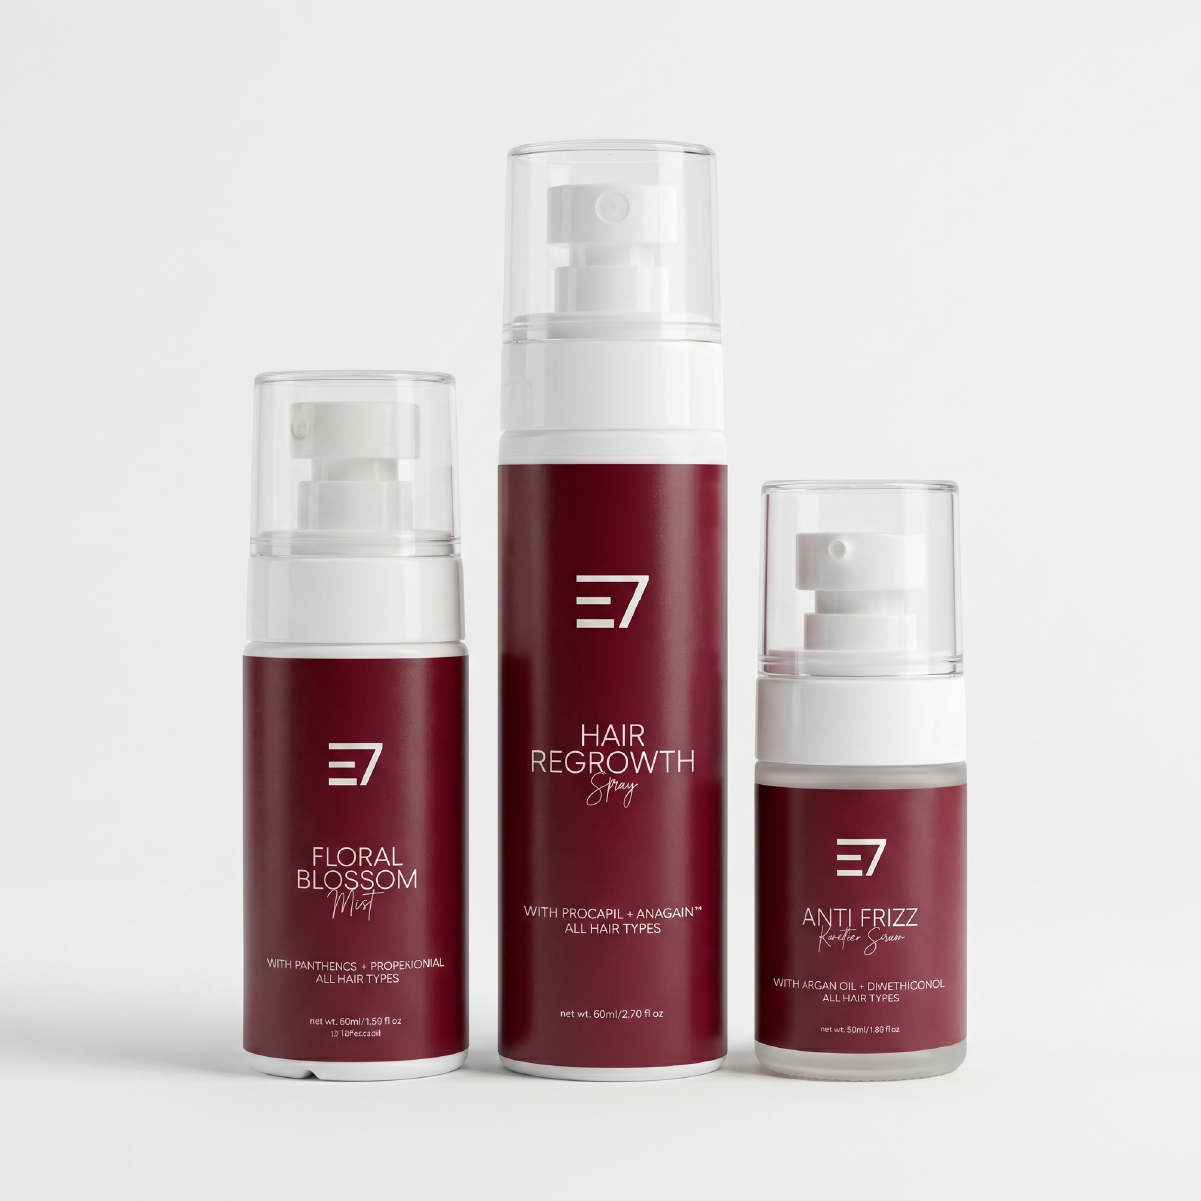
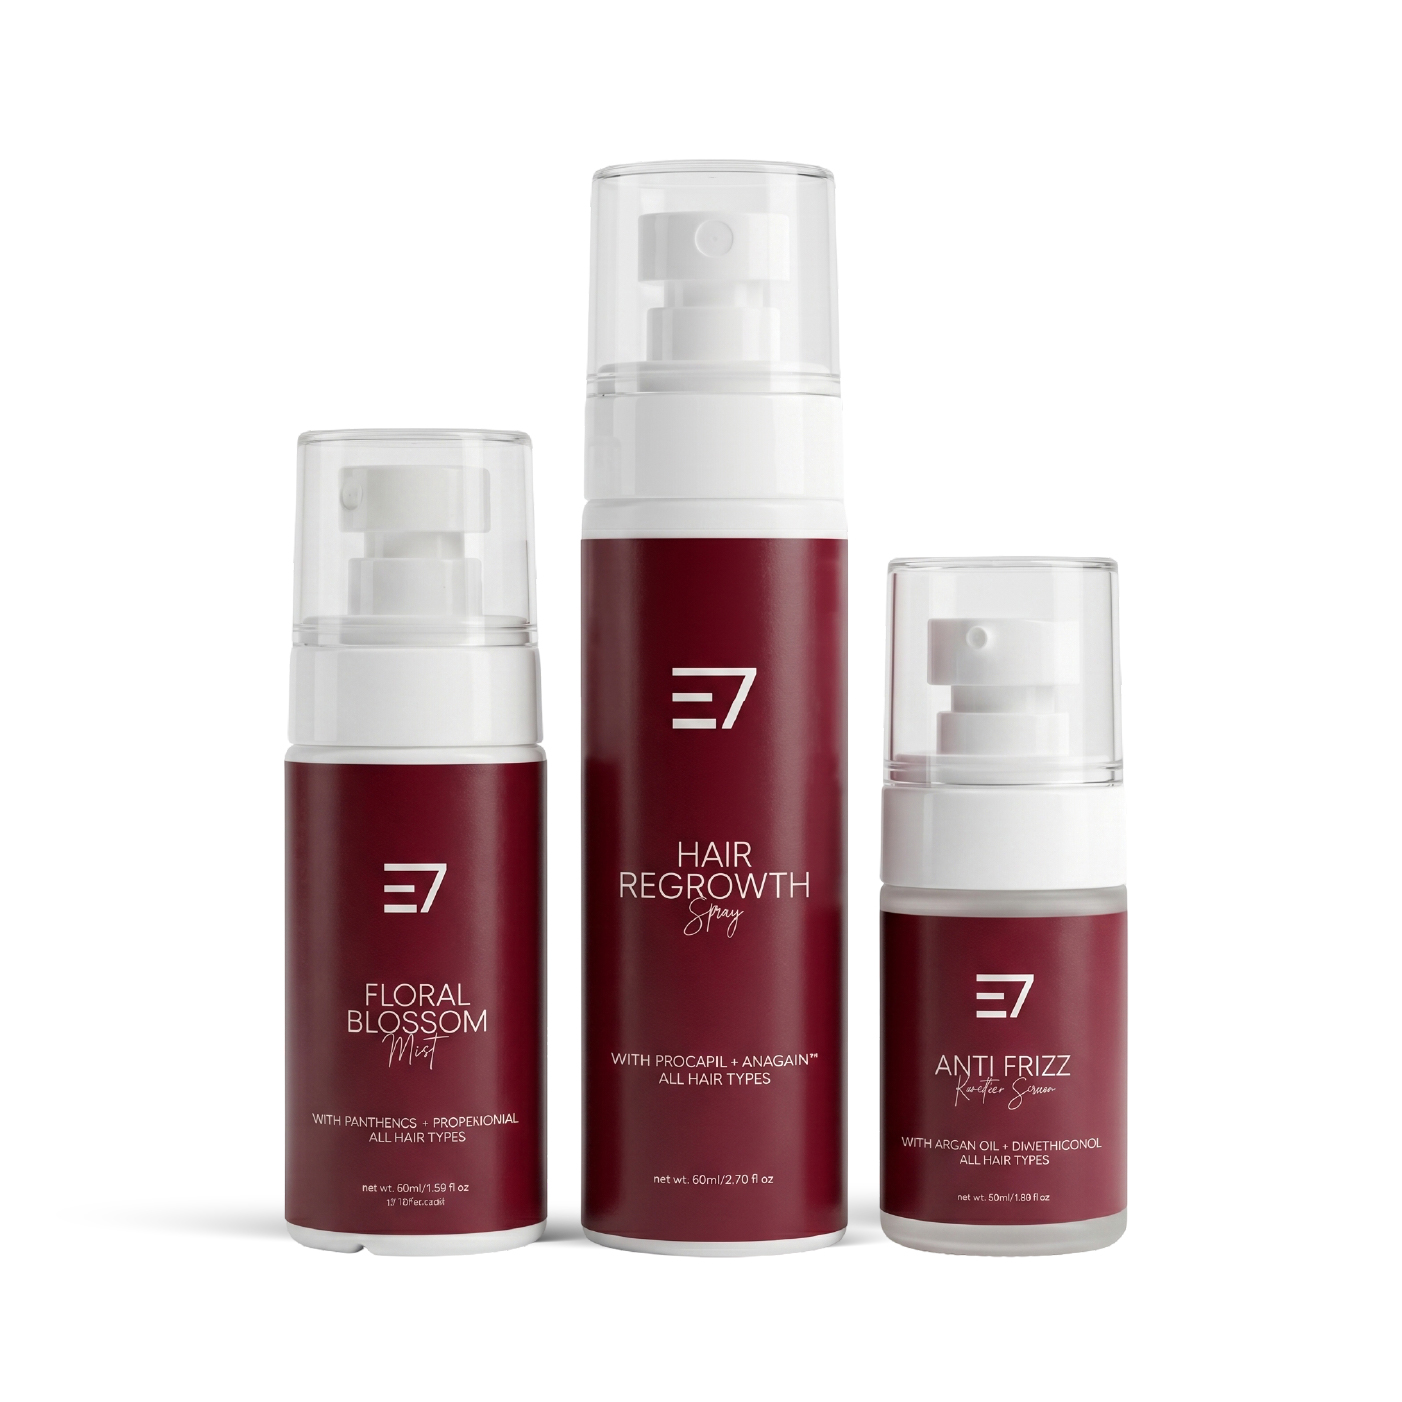
Rebrand customer-facing Elaris7 name to elaréhair across the theme.
Updates logo, subtitles, FAQs, bundle copy, and legacy text normalization.

diff --git a/_extras/static-product.html b/_extras/static-product.html
@@ -3,7 +3,7 @@
 <head>
   <meta charset="UTF-8" />
   <meta name="viewport" content="width=device-width, initial-scale=1.0" />
-  <title>Elaris7 | Product</title>
+  <title>elaréhair | Product</title>
 </head>
 <body style="margin:0;font-family:Arial,Helvetica,sans-serif;background:#fff;color:#580514;">
   <div style="width:100%;max-width:none;margin:0;background:#fff;min-height:100vh;position:relative;">
@@ -12,7 +12,7 @@
     <header class="navbar">
       <div class="left-nav">
         <button aria-label="menu" class="menu-btn">&#9776;</button>
-        <div class="logo">Elaris 7</div>
+        <div class="logo">elaréhair</div>
       </div>
       <nav class="desktop-nav">
         <a href="#">Shop</a>
@@ -117,7 +117,7 @@
               <h3>shampoo &amp; conditioner</h3>
             </div>
             <p>
-              explore Elaris 7 clean haircare solutions with shampoos and conditioners tailored
+              explore elaréhair clean haircare solutions with shampoos and conditioners tailored
               for moisture, volume, repair, and protection.
             </p>
           </div>
@@ -262,7 +262,7 @@
           <a href="#"><svg width="20" height="20" viewBox="0 0 24 24" fill="currentColor"><path d="M22.54 6.42a2.78 2.78 0 0 0-1.94-2C18.88 4 12 4 12 4s-6.88 0-8.6.46a2.78 2.78 0 0 0-1.94 2A29 29 0 0 0 1 11.75a29 29 0 0 0 .46 5.33 2.78 2.78 0 0 0 1.94 2c1.72.46 8.6.46 8.6.46s6.88 0 8.6-.46a2.78 2.78 0 0 0 1.94-2 29 29 0 0 0 .46-5.33 29 29 0 0 0-.46-5.33z"></path><polygon fill="#fff" points="9.75 15.02 15.5 11.75 9.75 8.48 9.75 15.02"></polygon></svg></a>
         </div>
         <div class="copyright">
-          <p>&copy; 2026, Elaris7 products.</p>
+          <p>&copy; 2026, elaréhair products.</p>
           <p>Site by iBeAuthentic LLC</p>
         </div>
       </div>

diff --git a/_extras/static-index.html b/_extras/static-index.html
@@ -3,7 +3,7 @@
 <head>
   <meta charset="UTF-8" />
   <meta name="viewport" content="width=device-width, initial-scale=1.0" />
-  <title>Elaris 7 | Hair Care</title>
+  <title>elaréhair | Hair Care</title>
 </head>
 <body style="margin:0;font-family:Arial,Helvetica,sans-serif;background:#fff;color:#580514;">
   <div style="width:100%;min-height:100vh;position:relative;">
@@ -12,7 +12,7 @@
     <header class="navbar">
       <div class="left-nav">
         <button aria-label="menu" class="menu-btn">&#9776;</button>
-        <div class="logo">Elaris 7</div>
+        <div class="logo">elaréhair</div>
       </div>
       <nav class="desktop-nav">
         <a href="#">Shop</a>
@@ -147,7 +147,7 @@
           <a href="#"><svg width="20" height="20" viewBox="0 0 24 24" fill="currentColor"><path d="M22.54 6.42a2.78 2.78 0 0 0-1.94-2C18.88 4 12 4 12 4s-6.88 0-8.6.46a2.78 2.78 0 0 0-1.94 2A29 29 0 0 0 1 11.75a29 29 0 0 0 .46 5.33 2.78 2.78 0 0 0 1.94 2c1.72.46 8.6.46 8.6.46s6.88 0 8.6-.46a2.78 2.78 0 0 0 1.94-2 29 29 0 0 0 .46-5.33 29 29 0 0 0-.46-5.33z"></path><polygon fill="#fff" points="9.75 15.02 15.5 11.75 9.75 8.48 9.75 15.02"></polygon></svg></a>
         </div>
         <div class="copyright">
-          <p>&copy; 2026, Elaris 7 products.</p>
+          <p>&copy; 2026, elaréhair products.</p>
           <p>Site by iBeAuthentic LLC</p>
         </div>
       </div>

diff --git a/bundle.html b/bundle.html
@@ -3,7 +3,7 @@
 <head>
   <meta charset="UTF-8" />
   <meta name="viewport" content="width=device-width, initial-scale=1.0" />
-  <title>Elaris 7 Korean Hair Care Bundle</title>
+  <title>elaréhair Korean Hair Care Bundle</title>
   <link rel="preconnect" href="https://fonts.googleapis.com" />
   <link rel="preconnect" href="https://fonts.gstatic.com" crossorigin />
   <link href="https://fonts.googleapis.com/css2?family=Inter:wght@300;400;500;600;700&display=swap" rel="stylesheet" />
@@ -105,7 +105,7 @@
         margin-bottom: 18px;
       "
     >
-      Elaris 7 Korean Hair Care Bundle
+      elaréhair Korean Hair Care Bundle
     </h1>
 
     <!-- Stars -->

diff --git a/assets/elaris-cart-drawer.css b/assets/elaris-cart-drawer.css
@@ -1,4 +1,4 @@
-/* Elaris7 cart drawer — #580514 + white */
+/* elaréhair cart drawer — #580514 + white */
 .elaris-cart-trigger {
   position: relative;
   display: inline-flex;